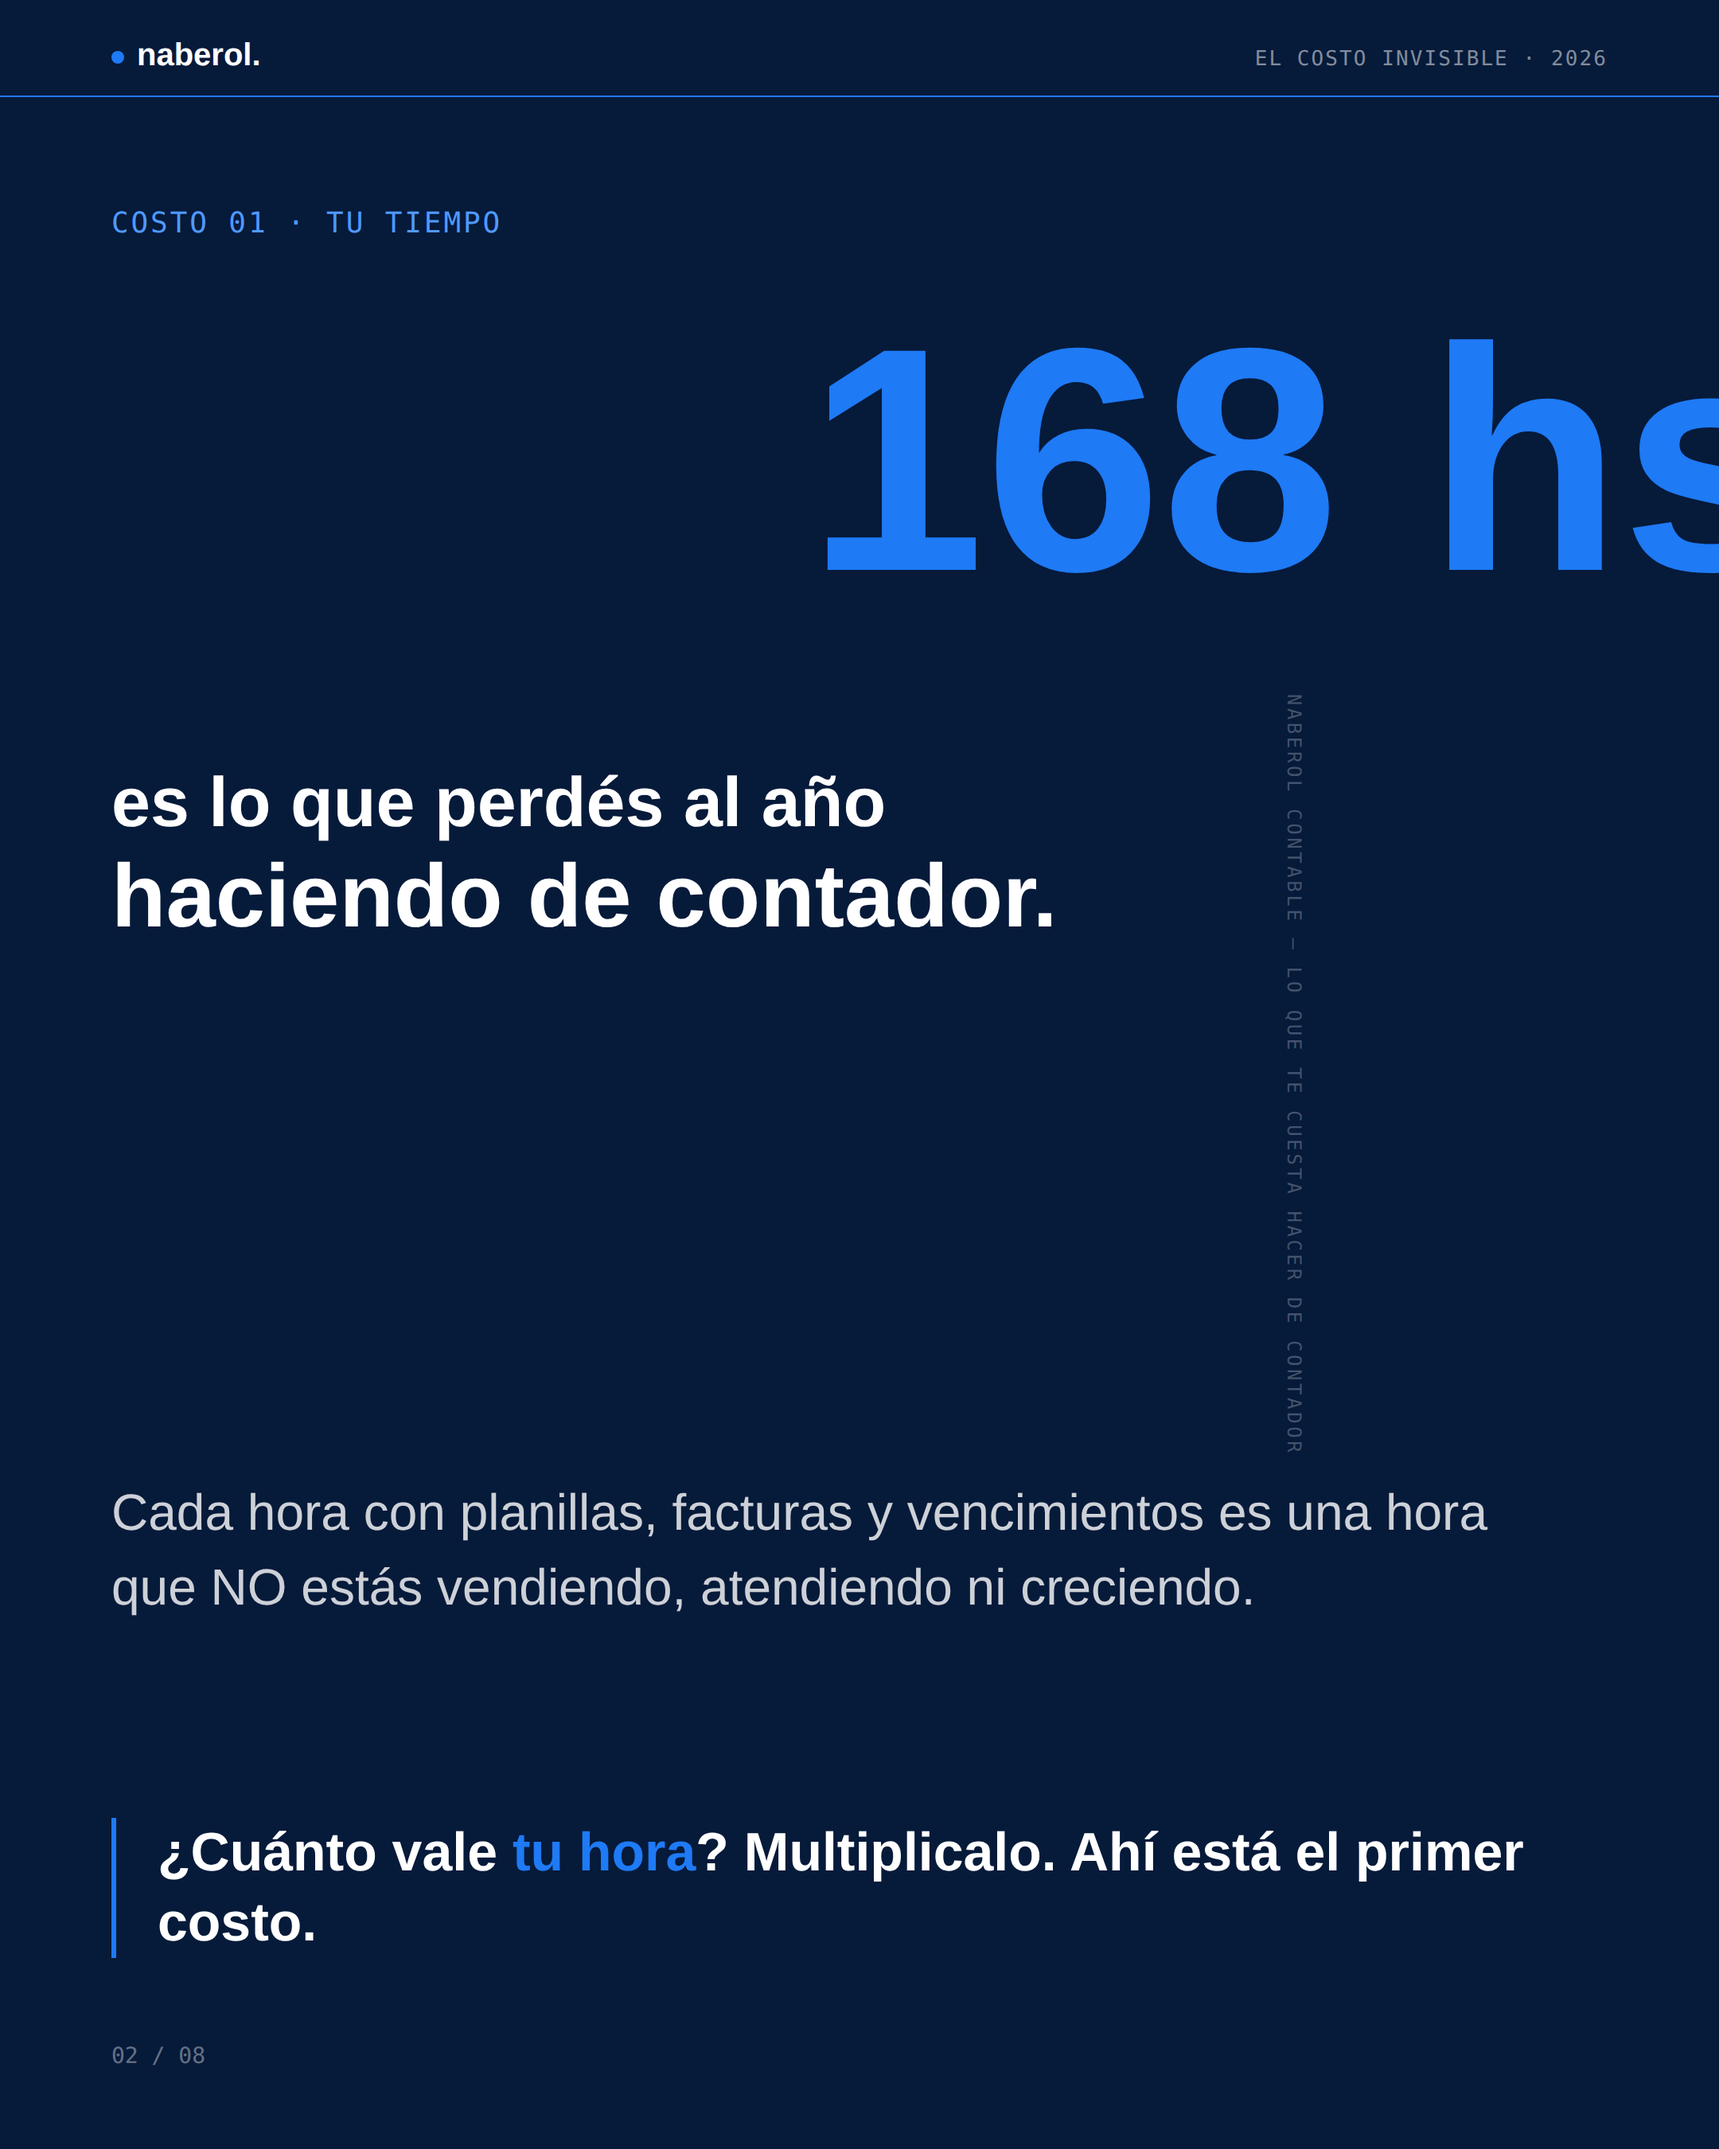
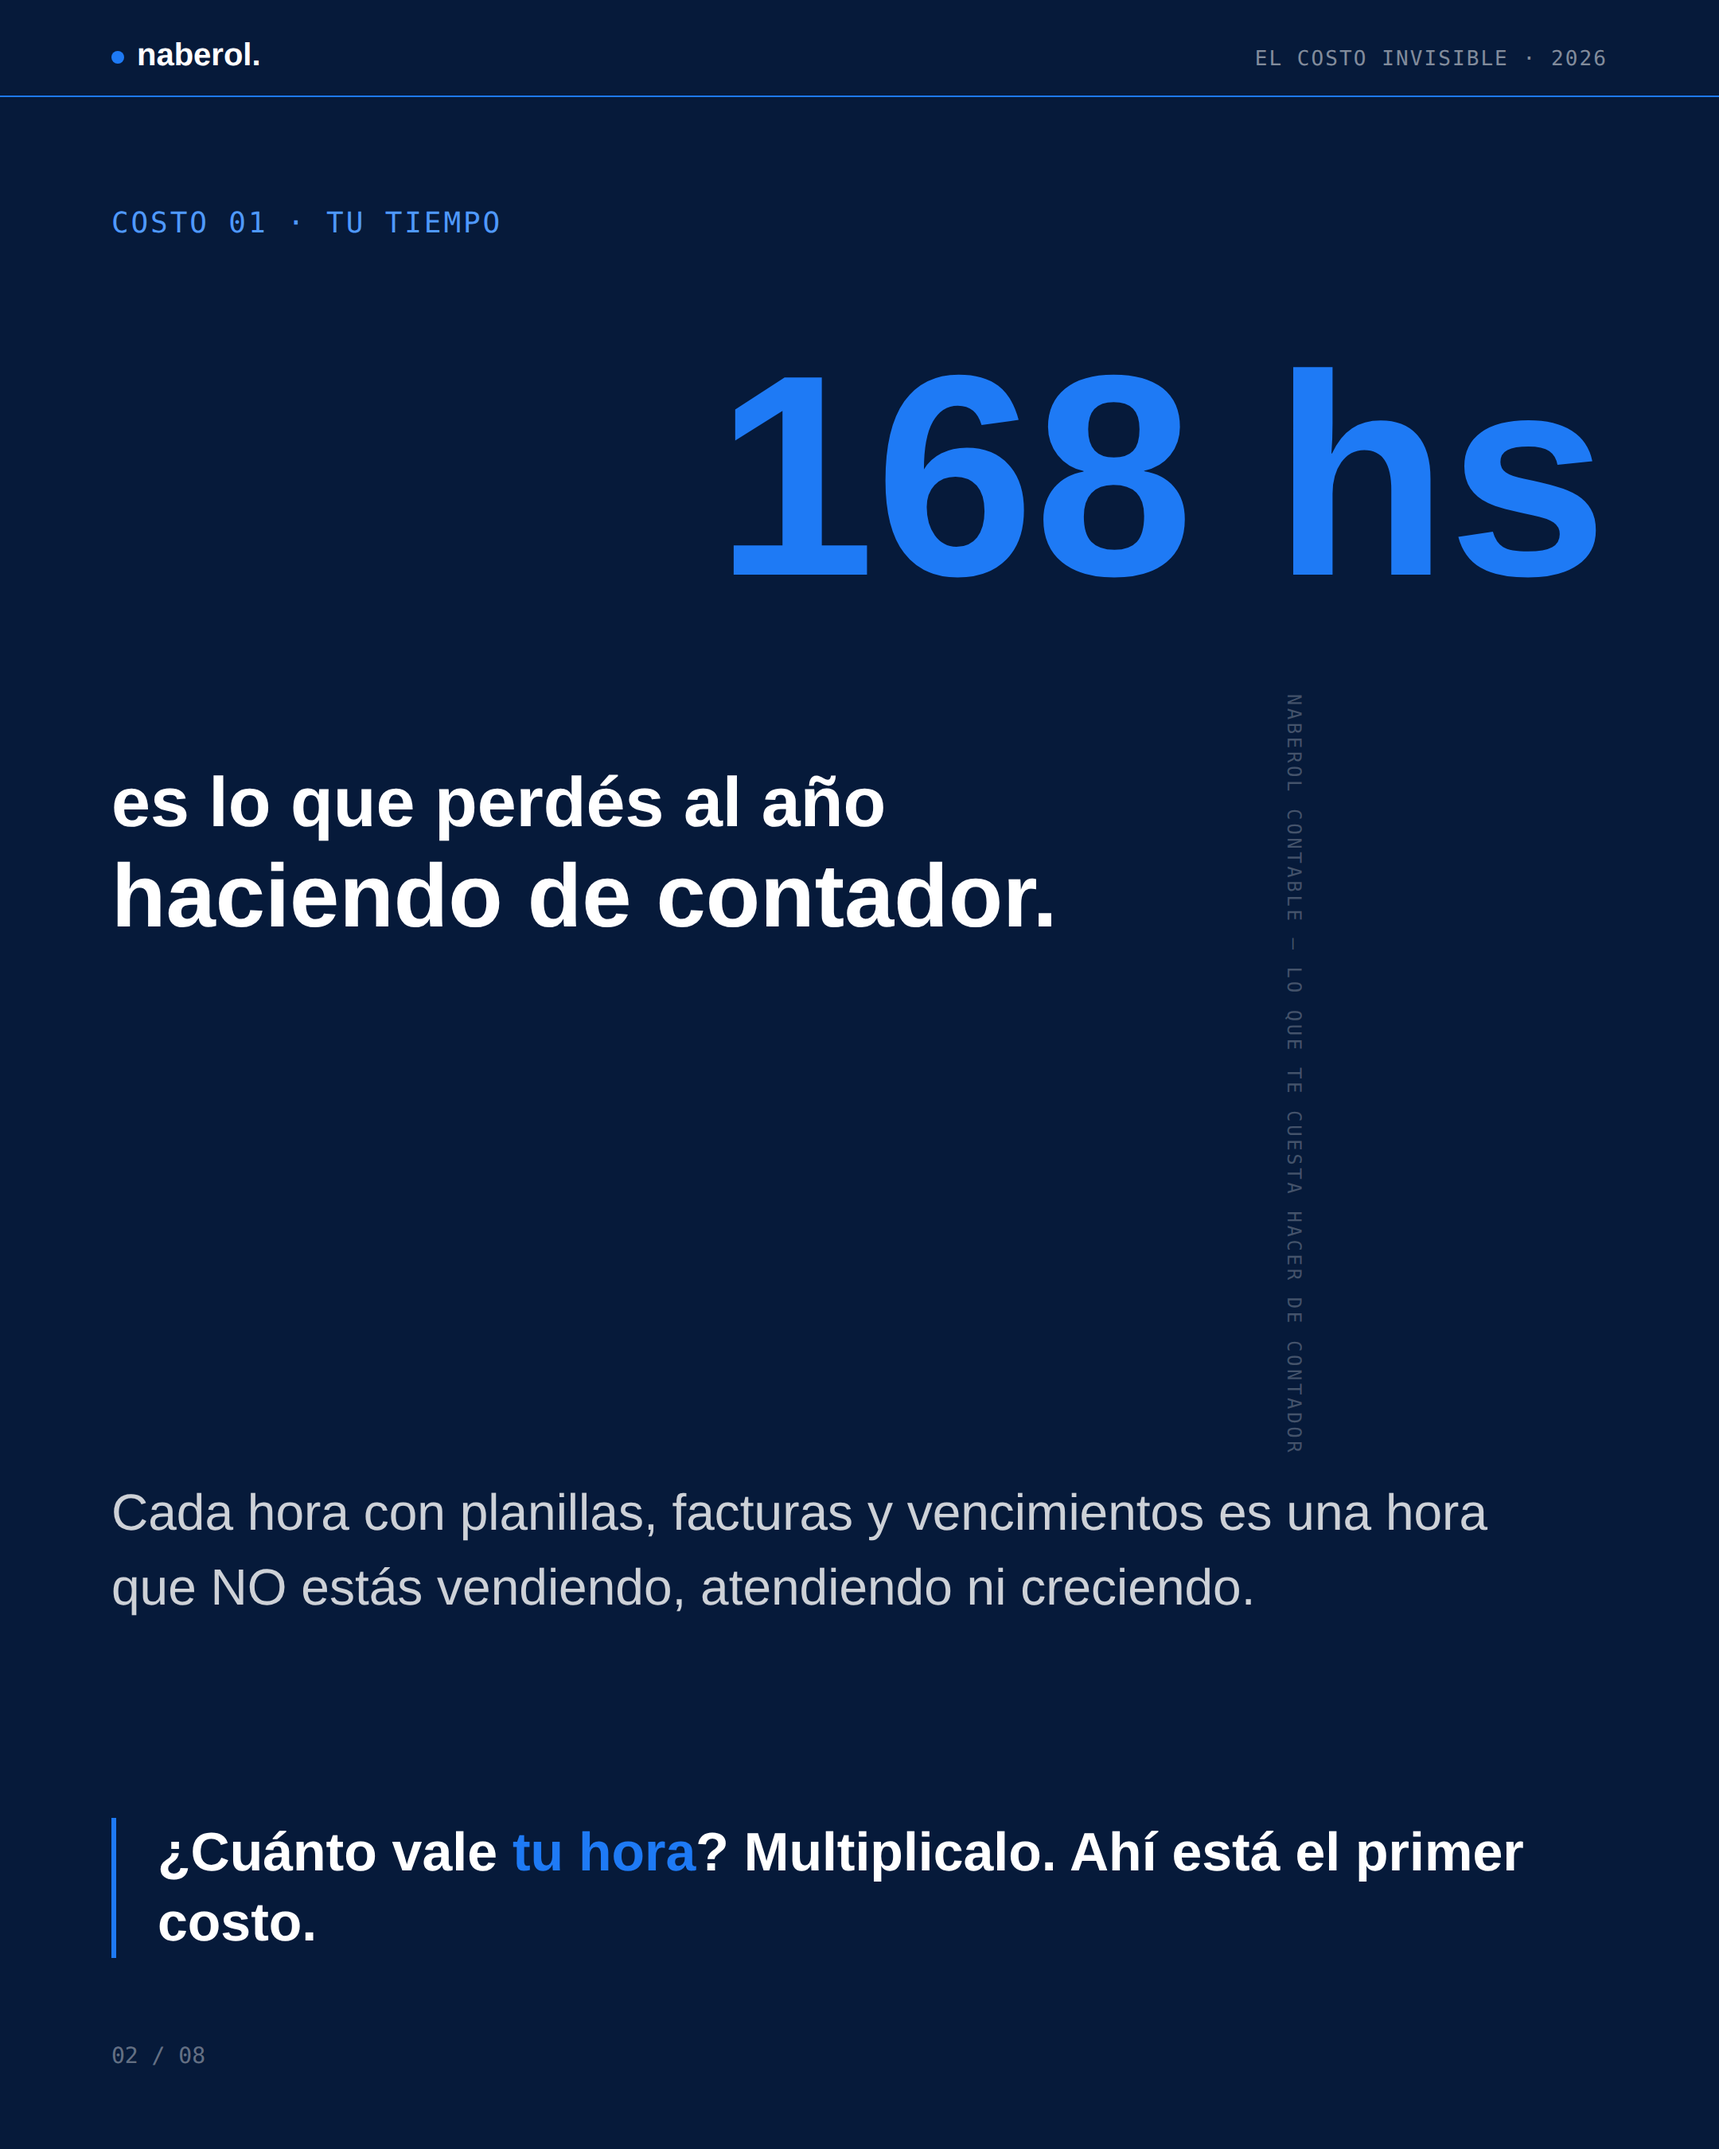
Fix text overflow on slides 2/4/7: keep stats fully visible and remove overlap

Changed region(s): [[0.4032, 0.1556, 1.0, 0.28]]

diff --git a/carrusel_costo_contador.html b/carrusel_costo_contador.html
@@ -147,9 +147,9 @@
   }
   #s2 .giant{
     position:absolute;
-    top:190px; right:-50px;
+    top:210px; right:70px;
     font-weight:700;
-    font-size:200px;
+    font-size:180px;
     color:var(--blue);
     line-height:1;
     white-space:nowrap;
@@ -224,9 +224,9 @@
   }
   #s4 .giant{
     position:absolute;
-    top:280px; left:-90px;
+    top:240px; left:60px;
     font-weight:700;
-    font-size:300px;
+    font-size:240px;
     color:var(--amber);
     transform:rotate(-4deg);
     white-space:nowrap;
@@ -234,7 +234,7 @@
     line-height:1;
   }
   #s4 .right-block{
-    position:absolute; top:300px; right:70px;
+    position:absolute; top:600px; right:70px;
     text-align:right;
     z-index:1;
   }
@@ -344,7 +344,7 @@
   #s7 .b-b-wrap svg{ position:absolute; top:50%; left:-4%; }
   #s7 .b-c{ font-weight:600; font-size:50px; color:#fff; margin-top:50px; }
   #s7 .b-d{ font-weight:600; font-size:50px; color:#fff; }
-  #s7 .b-e{ font-weight:700; font-size:88px; color:var(--green); line-height:1; }
+  #s7 .b-e{ font-weight:700; font-size:78px; color:var(--green); line-height:1; }
   #s7 .quote{
     position:absolute; bottom:130px; left:70px; right:90px;
     border-left:3px solid var(--green);
